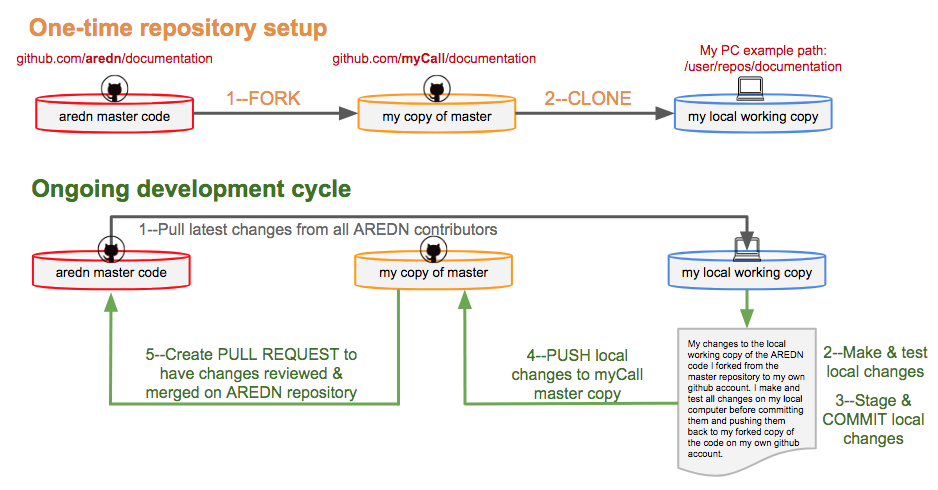
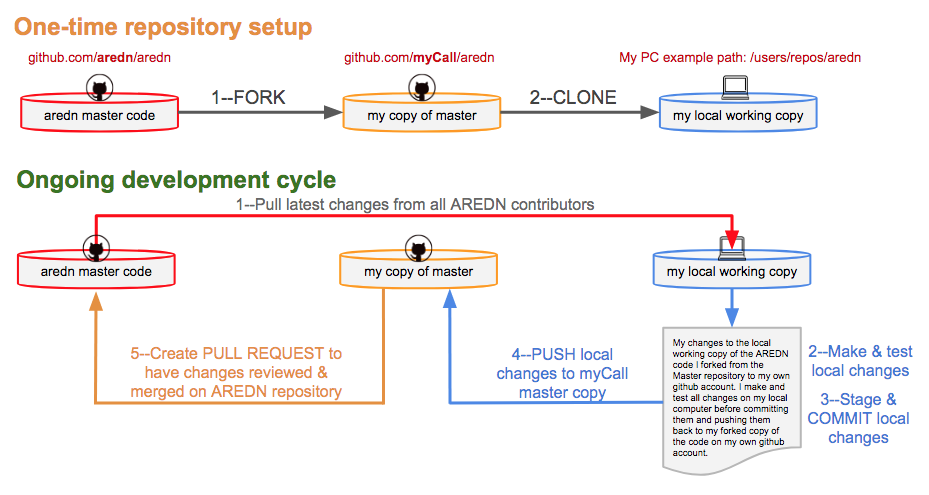
Update links for new aredn code repo
Update links pointing to the new aredn code repo.

Changed region(s): [[0.0, 0.3367, 0.9989, 0.9796], [0.0, 0.0306, 0.9365, 0.2755]]

diff --git a/arednServicesGuide/other_programs.rst b/arednServicesGuide/other_programs.rst
@@ -47,7 +47,7 @@ GPS Tracking Services
 
 Tracking deployed resources is an important task during any emergency. There are many options for monitoring and displaying the GPS locations of tracked resources, two of which are mentioned here.
 
-Many amateur radios and portable locating beacons transmit `Automatic Packet Reporting System (APRS) <https://en.wikipedia.org/wiki/Automatic_Packet_Reporting_System>`_ information. It is possible to implement an APRS receiver using inexpensive, battery-powered, portable computers and USB `Software Defined Radios (SDR) <https://en.wikipedia.org/wiki/Software-defined_radio>`_. The details are widely available for building these receivers using Raspberry Pi computers with `Direwolf <https://github.com/wb2osz/direwolf/blob/master/README.md>`_ and `Xastir <http://xastir.org/index.php/Main_Page>`_ or `YAAC <https://sourceforge.net/p/yetanotheraprsc/wiki/Home/>`_ software.
+Many amateur radios and portable locating beacons transmit `Automatic Packet Reporting System (APRS) <https://en.wikipedia.org/wiki/Automatic_Packet_Reporting_System>`_ information. It is possible to implement an APRS receiver using inexpensive, battery-powered, portable computers and USB `Software Defined Radios (SDR) <https://en.wikipedia.org/wiki/Software-defined_radio>`_. The details are widely available for building these receivers using Raspberry Pi computers with `Direwolf <https://github.com/wb2osz/direwolf/blob/master/README.md>`_ and `Xastir <https://sourceforge.net/projects/xastir/>`_ or `YAAC <https://sourceforge.net/p/yetanotheraprsc/wiki/Home/>`_ software.
 
 There may be situations when it would also be helpful to track the locations of aircraft during an emergency. `Automatic Dependent Surveillance-Broadcast (ADS-B) <https://en.wikipedia.org/wiki/Automatic_dependent_surveillance_%E2%80%93_broadcast>`_ information is available which can be captured using portable computers with ADS-B receivers. The following image shows the track of two water tankers dropping fire retardant above Santa Barbara, California, during the 2017 `Thomas Fire <https://en.wikipedia.org/wiki/Thomas_Fire>`_. This information was displayed across an AREDN |trade| network using an `ADS-B Ground station <https://flightaware.com/adsb/piaware/build>`_ which was running as a mesh network service.
 

diff --git a/README.md b/README.md
@@ -8,8 +8,8 @@ To view the AREDN documentation in a web browser, navigate to [https://arednmesh
 While viewing the AREDN documentation in your web browser, you will see the contents list in the left panel. At the bottom of the panel is a drawer labeled "ReadTheDocs" showing the version you are viewing. Click the label bar to open it. From the drawer you can export the documentation set as a single PDF or Epub file. This is handy if you want to take a PDF copy of the guidebook with you into the field where you do not have Internet access.
 
 ## Contributing:
-If you are interested in contributing to the rapidly growing set of AREDN related information, you can easily do so on GitHub. The workflow for contributing documentation is identical to the workflow for contributing code which is described in detail here: [How to Use GitHub for AREDN](https://github.com/aredn/documentation/blob/master/How%20to%20Use%20GitHub%20for%20AREDN.md).
+If you are interested in contributing to the rapidly growing set of AREDN related information, you can easily do so on GitHub. The workflow for contributing documentation is described in detail here: [How to Use GitHub for AREDN](https://github.com/aredn/documentation/blob/master/How%20to%20Use%20GitHub%20for%20AREDN.md).
 
-The only difference is the repository name of `aredn/documentation` and the main branch name of `master`. Your local code branch name can be anything that makes sense to you. After you create your Pull Request, the AREDN team will review your request just as it does for code changes. Once your documentation contributions are committed to the AREDN GitHub repository, a webhook updates and builds the latest docs for viewing and exporting on ReadTheDocs.org
+Your local code branch name can be anything that makes sense to you. After you create your Pull Request, the AREDN team will review your request just as it does for code changes. Once your documentation contributions are committed to the AREDN GitHub repository, a webhook automatically updates and builds the latest docs for viewing and exporting on ReadTheDocs.org
 
 AREDN documentation is written using the reStructuredText markup language. Text is saved in "rst" files. Before committing your changes, be sure to test your `rst` files to ensure they will render correctly.

diff --git a/appendix/more_info.rst b/appendix/more_info.rst
@@ -21,7 +21,7 @@ If you are interested in contributing to the rapidly growing set of AREDN |trade
 6. Go to your local computer and clone your fork of the AREDN |trade| documentation: ``git clone https://github.com/YOUR-GITHUB-ID/documentation``
 7. Navigate on your local computer to the folder where your cloned copy of the repository is located: ``cd documentation``  This directory contains your local copy of the AREDN |trade| documentation, and all of your document editing should be done while you are in this directory or its subdirectories.
 
-The workflow for contributing documentation is identical to the workflow for contributing code which is described in the file titled **How to Use GitHub for AREDN**, a copy of which you already have in your new local repository. Refer to that document for additional information about contributing AREDN |trade| documentation.
+The workflow for contributing documentation is described in the file titled `How to Use GitHub for AREDN <https://github.com/aredn/documentation/blob/master/How%20to%20Use%20GitHub%20for%20AREDN.md>`_, a copy of which you will have in your new local repository. Refer to that document for additional information about contributing AREDN |trade| documentation.
 
 Your local editing branch name can be anything that makes sense to you as you add topics to the documentation. AREDN |trade| documentation is written using the `reStructuredText <https://docutils.sourceforge.io/docs/ref/rst/restructuredtext.html>`_ markup language and your text is saved in "rst" files. Before committing your changes, be sure to test your rst files locally using `Sphinx <https://www.sphinx-doc.org/en/master/usage/quickstart.html>`_ to ensure they will render correctly.
 

diff --git a/arednGettingStarted/advanced_config.rst b/arednGettingStarted/advanced_config.rst
@@ -117,7 +117,7 @@ VLAN 2
 No VLAN tag
   Packets received by the node that are untagged will be identified as LAN traffic from computers on the local area network.
 
-It is important to understand AREDN |trade| VLANs when configuring network smart switches for Internet access, tunneling, or DtD linking of nodes. There are some useful tutorials available on the AREDN |trade| website for configuring VLAN-capable switches: `Video <https://www.arednmesh.org/content/understanding-vlans>`_ or `Text+Images <https://www.arednmesh.org/content/configuring-netgear-gs105e-switch-lanwan-ports>`_. Also, on the AREDN |trade| GitHub site there is more information about node VLANs that have been preconfigured in the firmware images for specific types of radio hardware. For additional information visit this link: `Ethernet Port Usage <https://github.com/aredn/aredn_ar71xx#ethernet-port-usage>`_
+It is important to understand AREDN |trade| VLANs when configuring network smart switches for Internet access, tunneling, or DtD linking of nodes. There are some useful tutorials available on the AREDN |trade| website for configuring VLAN-capable switches: `Video <https://www.arednmesh.org/content/understanding-vlans>`_ or `Text+Images <https://www.arednmesh.org/content/configuring-netgear-gs105e-switch-lanwan-ports>`_. Also, on the AREDN |trade| GitHub site there is more information about node VLANs that have been preconfigured in the firmware images for specific types of radio hardware. For additional information visit this link: `Ethernet Port Usage <https://github.com/aredn/aredn#ethernet-port-usage>`_
 
 Port Forwarding, DHCP, and Services
 -----------------------------------

diff --git a/arednHow-toGuides/home-router-connection.rst b/arednHow-toGuides/home-router-connection.rst
@@ -2,7 +2,7 @@
 Connecting Nodes to Home Routers
 ================================
 
-There are several AREDN |trade| nodes that have more than one Ethernet port, including the *Mikrotik hAP ac lite* as well as the *GL.iNet AR150, AR300M16*, and *AR750 Creta*. The AREDN |trade| firmware running on these types of nodes has the WAN port preconfigured for connecting to the Internet. You can get the latest information about the specific port configured as the node's WAN port from the AREDN |trade| website here: `Ethernet Port Usage <https://github.com/aredn/aredn_ar71xx/blob/develop/README.md#ethernet-port-usage>`_
+There are several AREDN |trade| nodes that have more than one Ethernet port, including the *Mikrotik hAP ac lite* as well as the *GL.iNet AR150, AR300M16*, and *AR750 Creta*. The AREDN |trade| firmware running on these types of nodes has the WAN port preconfigured for connecting to the Internet. You can get the latest information about the specific port configured as the node's WAN port from the AREDN |trade| website here: `Ethernet Port Usage <https://github.com/aredn/aredn#ethernet-port-usage>`_
 
 .. image:: _images/home-router-connection.png
    :alt:  Connect nodes to Internet through home router
